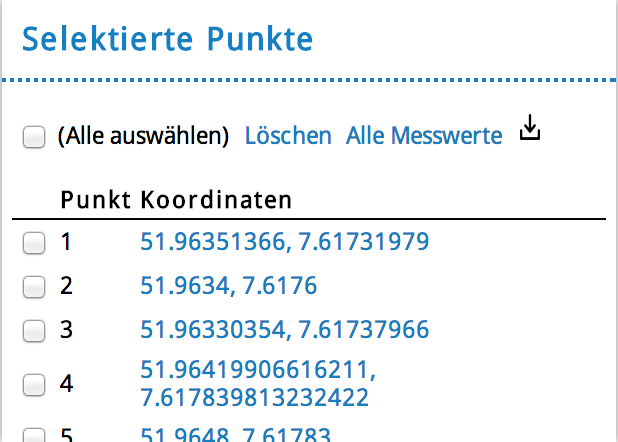
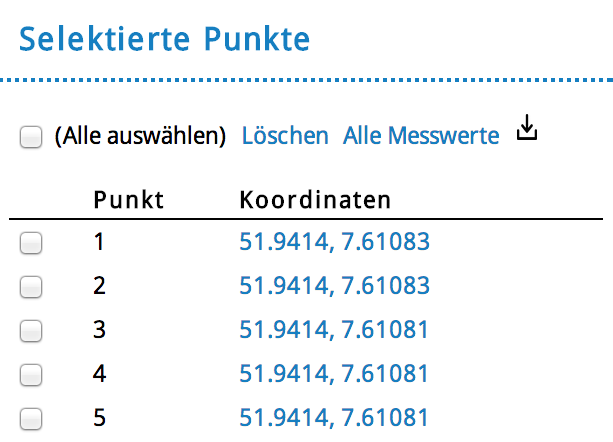
8. Die Selektierten Punkte
- Screenshots ausgetauscht
- 8., 8.1, 8.2 und 8.3 etwas umgeschrieben

diff --git a/help.html b/help.html
@@ -588,118 +588,55 @@ Der Benutzer klickt auf “Zur Auswahl hinzufügen”. Alle zum Track gehörigen
                 <div id=clear></div>
                 <h3 id=help-8>8. Die Selektierten Punkte</h3>
 				
-				Der Bereich “Selektierte Punkte” befindet sich direkt unter den Selektierwerkzeugen. Werden Punkte mit dem Selektierwerkzeug “BySinglePoint” (Erklärung siehe 7.1) ausgewählt, erscheint dieser automatisch  in der Selektionstabelle, im Beispiel rechts wurden bereits einige Punkte der Tabelle hinzugefügt:
-				<div id=clear></div>
-				  <div class="imageBoxLeft">
-                    <img src="images/help/help-8-selekt1.png" alt="Selektierte Punkte Bereich" class=imageNoBorder width=300px>
-                    <div class="imageCaption">
-                        Bereich für selektierte Punkte
-                    </div>
-                </div>
                 <div class="imageBoxRight">
-                    <img src="images/help/help-8-s1.png" alt="Beispiel für selektierte Punkte" class=imageNoBorder width=300px>
+                    <img src="images/help/help-8-s1.png" alt="Bereich der selektierten Punkte" class=imageNoBorder width=280px>
                     <div class="imageCaption">
-                        Beispiel für selektierte Punkte
+                        Bereich der selektierten Punkte
                     </div>
                 </div>
+        
+				Der Bereich "Selektierte Punkte" befindet sich direkt unter den Selektierwerkzeugen. Werden Punkte mit einem der Selektierwerkzeuge ausgewählt, so erscheint er hier automatisch mit seinen Koordinaten. Wenn Sie wissen möchten, um welchen Punkt es sich genau handelt, klicken Sie auf seine Koordinaten in der Selektionstabelle. Der Kartenausschnitt wird anschließend zu dem entsprechenden Punkte verschoben und das Popup des Messpunktes öffnet sich.
                 
                 <div id=clear></div>
                 <h4 id=help-8-1>8.1 Punkte aus der Selektionstabelle löschen</h4>
-                Falls ein Punkt aus den selektierten Punkten gelöscht werden soll, kann dieser in der Checkbox manuell angewählt und mit einem Klick auf “Löschen” entfernt werden. Nach einem Klick auf "Löschen" ist die Tabelle leer.
-                <div id=clear></div>
-				<div class="imageBoxLeft">
-                    <img src="images/help/help-8-selekt2.png" alt="Beispiel für Punkte löschen" class=imageNoBorder width=300px>
+                
+                <div class="imageBoxLeft">
+                    <img src="images/help/help-8-1-s1.png" alt="Selektierte Punkte löschen" class=imageNoBorder width=280px>
                     <div class="imageCaption">
-                        Beispiel um einzelnen Punkt zu löschen
+                        Link zum "Löschen" und alle Checkboxen<br> sind bereits in der Selektionstabelle angewählt
                     </div>
                 </div>
+                Falls Sie einen Punkt aus der Selektionstabelle löschen möchten, können Sie diese ganz einfach mit dem Anklicken der entsprechenden Checkbox tun. Haben Sie ihn manuell angewählt, klicken Sie anschließend auf löschen und er wird von der Selektion gelöscht.<br>Für den Fall, dass Sie alle Punkte aus der Selektionstabelle löschen möchten, dann klicken Sie einfach auf die oberste Checkbox. Dadurch werden alle auf einmal ausgewählt. Bestätigen Sie anschließend mit einem Klick auf "Löschen" und die Selektionstabelle wird geleert.
 				
-						
-				
-				<div class="imageBoxRight">
-                    <img src="images/help/help-8-selekt3.png" alt="Beispiel für gelöschten Punkt" class=imageNoBorder width=300px>
-                    <div class="imageCaption">
-                        Tabelle ist nun leer
-                    </div>
-                </div>
-				<div id=clear></div>
-				
-				Für den Fall, das man viele Punkte aus seiner Auswahl löschen muss, was sehr mühsam ist, können auch alle Punkte aufeinmal ausgewählt werden,  in dem man die Checkbox (Alle auswählen) anklickt:
-				 <div id=clear></div>
-				<div class="imageBoxLeft">
-                    <img src="images/help/help-8-selekt4.png" alt="Beispiel für Punkte löschen" class=imageNoBorder width=300px>
-                    <div class="imageCaption">
-                        Beispieltabelle befüllt mit vielen Punkten
-                    </div>
-                </div>
-				
-						<div class="imageBoxRight">
-                    <img src="images/help/help-8-selekt5.png" alt="Beispiel für Punkte löschen" class=imageNoBorder width=300px>
-                    <div class="imageCaption">
-                        Beispieltabelle in der alle Punkte ausgewählt wurden (via Checkbox)
-                    </div>
-                </div>
-				
-				
-				<div id=clear></div>
-				
-				
-			<p>Auch danach ist die Tabelle leer. </p>
-			<div id=clear></div>
-			<div class="imageBoxLeft">
-                    <img src="images/help/help-8-selekt3.png" alt="Beispiel für gelöschte Punkte" class=imageNoBorder width=300px>
-                    <div class="imageCaption">
-                        Tabelle ist wieder leer
-                    </div>
-                </div>
-			<div id=clear></div>
+			    <div id=clear></div>
                 <h4 id=help-8-2>8.2 Alle Messwerte anzeigen</h4>
-                Man kann sich die Messwerte samt Koordinaten und allen vorhandenen Informationen in einer Tabelle anzeigen lassen, durch einen Klick auf “Alle Messwerte”.
-                <div id=clear></div>
-				
+                
+                <div class="imageBoxRight">
+                    <img src="images/help/help-8-2-s1.png" alt="Link zu Allen Messwerten" class=imageNoBorder width=280px>
+                    <div class="imageCaption">
+                        Link zu "Allen Messwerten"
+                    </div>
+                </div>
+                Da die Selektionstabelle nur eine kurze Übersicht aller selektierten Punkte darstellen soll, sind nur die zugehörigen Koordinaten enthalten. Wenn Sie einen kompletten Überblick über alle Messwerte der selektierten Punkte erhalten möchten, klicken Sie auf "Alle Messwerte". Es öffnet sich ein neues Fenster. Auch hier können Sie über einen Klick auf die Koordinaten zum entsprechenden Punkte auf der Karte gelangen.
 				<div class="imageBoxLeft">
-                    <img src="images/help/help-8-selekt6.png" alt="Beispiel um alle Messwerte anzuzeigen" class=imageNoBorder width=300px>
+                    <a href="images/help/help-8-2-s2.png" rel="shadowbox"><img src="images/help/help-8-2-s2.png" alt="Messwerte aller selektierten Punkte" class=image width=500px></a>
                     <div class="imageCaption">
-                        Auf "Alle Messwerte" klicken
+                        Tabelle aller Messwerte der selektierten Punkte
                     </div>
                 </div>
-				
-				<div class="imageBoxRight">
-                    <img src="images/help/help-8-selekt7.png" alt="Messwerttabelle" class=imageNoBorder width=300px>
-                    <div class="imageCaption">
-                        Tabelle mit allen Informationen zu den selektierten Messwerten
-                    </div>
-                </div>
+        
 				<div id=clear></div>
                 <h4 id=help-8-3>8.3 Alle Messwerte downloaden</h4>
-                Die Downloadfunktion bietet dem Nutzer die Möglichkeit in einer JSON-Datei sich die ausgewählen Messpunkte mit den dazugehörigen Messwerten downloaden zu können.
-Ansteuerbar ist die Downloadfunktion über dieses kleine Downloadsymbol
-                <div id=clear></div>
-				
-				<div class="imageBoxLeft">
-                    <img src="images/help/help-8-selekt8.png" alt="Downloadkontext" class=imageNoBorder width=300px>
-                    <div class="imageCaption">
-                        Rechts neben "Alle Messwerte" befindet sich das Downloadsymbol
-                    </div>
-                </div>
-				
+                
 				<div class="imageBoxRight">
                     <img src="images/help/download_2.png" alt="Downloadbutton" class=imageNoBorder width=30px>
                     <div class="imageCaption">
                         Downloadbutton
                     </div>
                 </div>
-				 <div id=clear></div>
-				 
-				 Hat man auf das Downloadsymbol geklickt, muss man folgenden Dialog noch bestätigen und dann startet der Download.
-				 
-				 
-				 <div class="imageBoxLeft">
-                    <img src="images/help/help-8-dlnachfrage.png" alt="Downloadsymbol" class=imageNoBorder width=400px>
-                    <div class="imageCaption">
-                        Jetzt auf "herunterladen" klicken
-                    </div>
-                </div>
+        
+                Mit einem Klick auf das rechts abgebildete Icon, können Sie sich eine JSON-Datei mit allen selektierten Punkte und ihren dazugehörigen Messwerten herunterzuladen.<br> Es öffnet sich ein neues Fenster, indem Sie einfach auf "Herunterladen" klicken können.
+				
 				<div id=clear></div>
                 <div id=next>
                     <a href="#help-8">zum Kapitelanfang</a>&nbsp;&nbsp;<a href="#top">nach oben</a>&nbsp;&nbsp;
@@ -710,7 +647,7 @@ Ansteuerbar ist die Downloadfunktion über dieses kleine Downloadsymbol
                 <div id=clear></div>
                 <h3 id=help-9>9. Die Analysefunktionen</h3>
 				
-                <div class="imageBoxLeft_2">
+                <div class="imageBoxRight">
                     <img src="images/help/help-9-s1.png" alt="Der Analysebereich" class=imageNoBorder width=250px>
                     <div class="imageCaption">
                         Der Analysebereich
